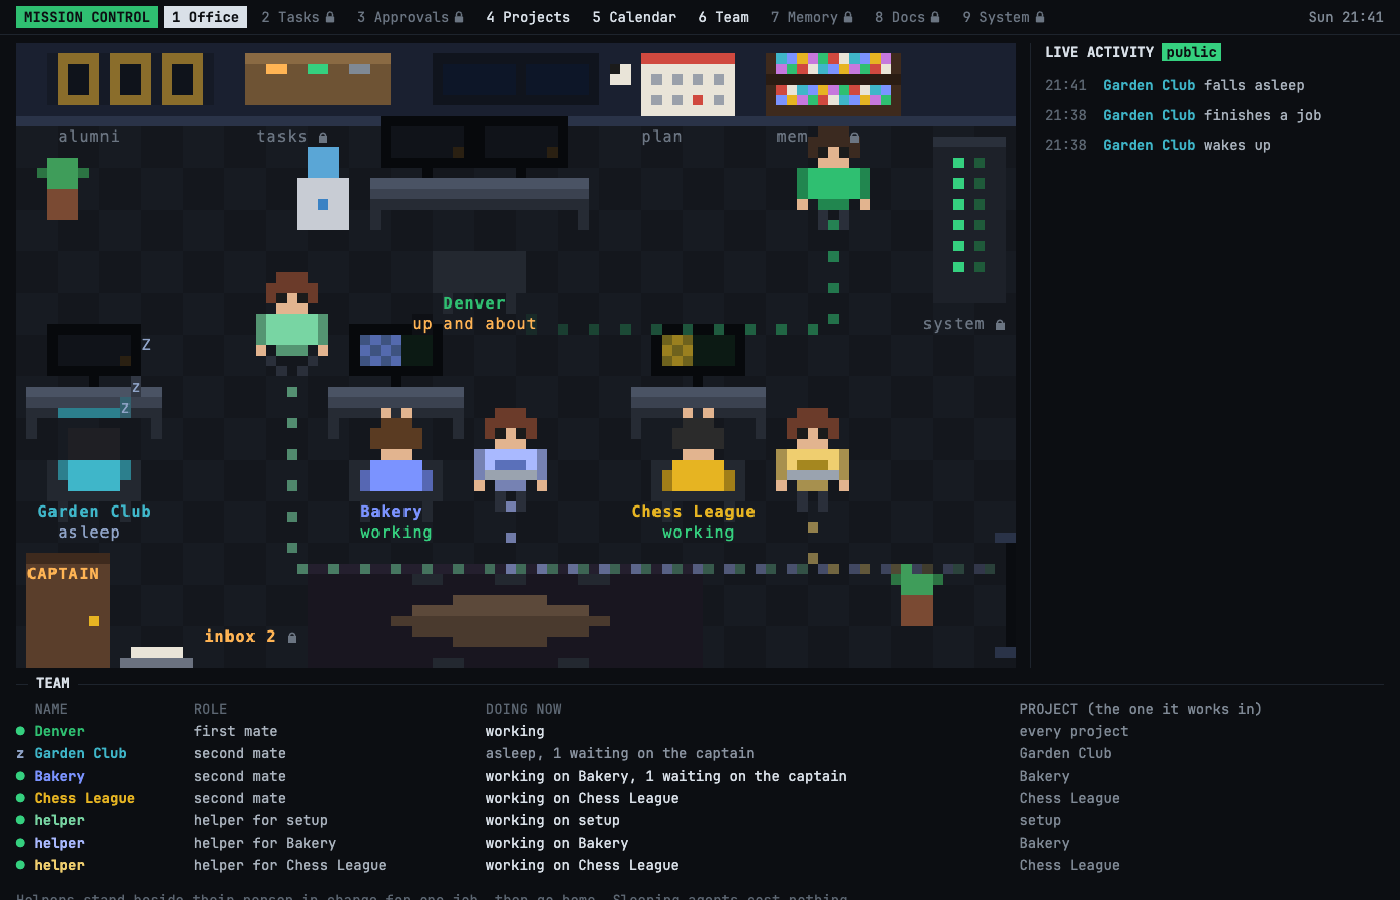
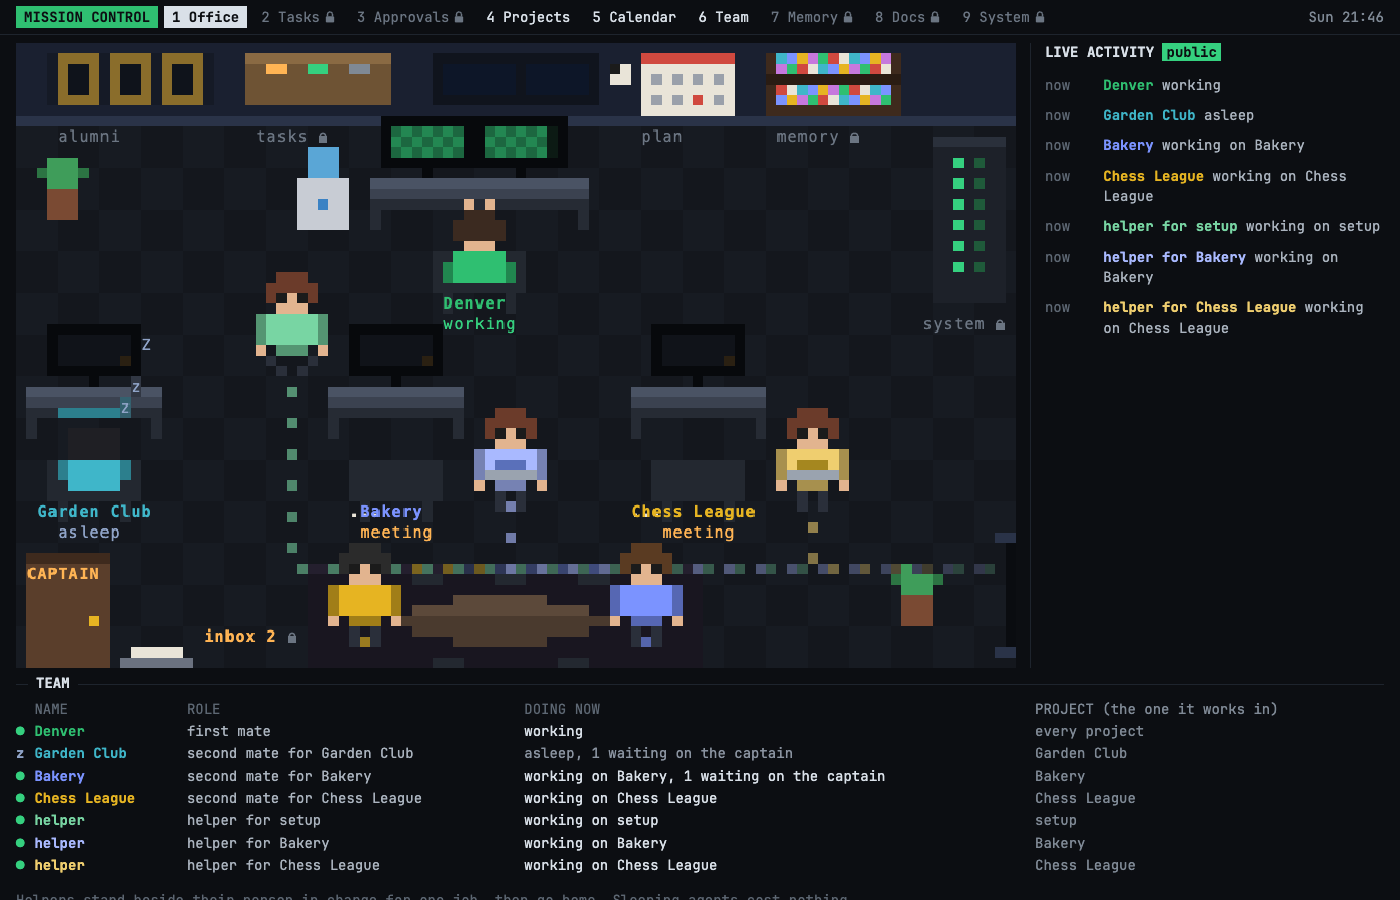
Build every public role from display names, never a registered scope

diff --git a/bin/mission-control-web/app.js b/bin/mission-control-web/app.js
@@ -718,7 +718,7 @@
       const g = el("td", "g " + (working ? "working" : helper ? "idle" : "asleep"), working ? "●" : helper ? "○" : "z");
       const nm = el("td", "nm", helper ? "helper" : str(d.name));
       nm.style.color = colour(d.color, "#d9e0e8");
-      const role = d.kind === "first" ? "first mate" : d.kind === "mate" ? "second mate" : str(d.name);
+      const role = str(d.role);
       let doing = str(d.activity);
       const w = helper ? 0 : waitingFor(d);
       if (w) doing += ", " + w + " waiting on the captain";

diff --git a/bin/fm_mission_control_web.py b/bin/fm_mission_control_web.py
@@ -34,8 +34,9 @@ records, so a field added to a record later never reaches the page.
             each live worker as "helper for <project>"; state working or asleep;
             one activity line built only from a fixed phrase and project names
             ("working on <project>"); the shirt and hair colours; the person in
-            charge of a helper; a second mate's one-line role only when it
-            passes _safe_role(), else "Looks after <projects>".
+            charge of a helper; a role built only from those names ("first
+            mate", "second mate for <projects>", "helper for <project>"),
+            never from a registered scope or charter.
   projects  public name, colour, status (active, parked or quiet), person in
             charge, and four counts: waiting on the captain, in flight, done
             this week (Sunday to Saturday) and done this month.
@@ -54,7 +55,7 @@ display name when that differs from the repository name, else "Project N" in
 registry order; this home's own repository is "setup" unless the names map
 names it. Every agent, project and calendar key is a position ("a1", "p2"),
 never a record id. Nothing is read from task titles, notes, paths, links,
-emails, charters beyond the role, data/captain.md, data/learnings.md, reports
+emails, scopes, charters, data/captain.md, data/learnings.md, reports
 or decision pages into the snapshot.
 
 SETTINGS. config/mission-control.json `public_page` (optional object):
@@ -133,21 +134,6 @@ def _public_names(model):
     return names, order
 
 
-def _safe_role(role, blocked):
-    """A second mate's one-line role, or None when it could carry anything private."""
-    role = (role or "").strip()
-    if not role or len(role) > 60:
-        return None
-    if not re.match(r"^[A-Za-z0-9 ,&'-]+$", role):
-        return None
-    words = {w.lower() for w in re.findall(r"[A-Za-z0-9]+", role)}
-    for b in blocked:
-        parts = {w.lower() for w in re.findall(r"[A-Za-z0-9]+", b or "")}
-        if parts and parts <= words:
-            return None
-    return role
-
-
 def _join(names):
     names = [n for n in names if n]
     if len(names) <= 2:
@@ -174,7 +160,6 @@ def public_snapshot(model, crew, settings, pub, now):
         return registered.get(os.path.basename(os.path.normpath(str(raw))).lower())
 
     mates = model.get("mates") or []
-    blocked = [p["name"] for p in model["projects"]] + [m["id"] for m in mates] + [model["ship"]]
     akey = {}
     agents = []
 
@@ -189,7 +174,7 @@ def public_snapshot(model, crew, settings, pub, now):
 
     by_key = {c["key"]: c for c in crew}
     fm = by_key["fm"]
-    add(fm, kind="first", name=settings["first_mate_name"], role="First mate",
+    add(fm, kind="first", name=settings["first_mate_name"], role="first mate",
         activity="working" if fm["status"] == "work" else "standing by",
         projects=[pkey[p] for p in order], lead=None)
     shown = 0
@@ -207,8 +192,7 @@ def public_snapshot(model, crew, settings, pub, now):
             activity = "working on %s" % (_join(pub_owned) if pub_owned else "its own list")
         else:
             activity = "asleep"
-        role = _safe_role(mc._role(m["scope"]), blocked) or (
-            "Looks after %s" % _join(pub_owned) if pub_owned else "Second mate")
+        role = "second mate for %s" % _join(pub_owned) if pub_owned else "second mate"
         add(c, kind="mate", name=name, role=role, activity=activity,
             projects=[pkey[p] for p in owned], lead=akey["fm"])
     for c in crew:
@@ -219,7 +203,7 @@ def public_snapshot(model, crew, settings, pub, now):
         lead = akey.get(c["lead"])
         if lead is None:
             continue
-        add(c, kind="helper", name="helper for %s" % where, role="Helper",
+        add(c, kind="helper", name="helper for %s" % where, role="helper for %s" % where,
             activity=("working on %s" if c["status"] == "work" else "between steps on %s") % where,
             projects=[pkey[p]], lead=lead)
 

diff --git a/docs/mission-control.md b/docs/mission-control.md
@@ -142,8 +142,8 @@ In the office the corkboard, bookshelf, server rack and inbox carry the same loc
 Tapping someone makes them stand up and say one line, like a character in a game: what they are doing, a count from their projects, or a fun fact.
 Its Open chat button is locked, because only you talk to the crew.
 
-The page shows only public facts: the first mate's name, each second mate by its project's name, helpers as "helper for" a project, working or asleep, project names and colours, how many items are waiting on you, in flight and done, how many were done or are due on each calendar day, and plain events such as "wakes up".
-It never shows task titles, notes, paths, links, email addresses, repository names or anything from the crew's memory, reports or decisions.
+The page shows only public facts: the first mate's name, each second mate by its project's name, helpers as "helper for" a project, roles built only from those names (such as "second mate for" a project), working or asleep, project names and colours, how many items are waiting on you, in flight and done, how many were done or are due on each calendar day, and plain events such as "wakes up".
+It never shows task titles, notes, paths, links, email addresses, repository names, the second mates' registered scopes or anything from the crew's memory, reports or decisions.
 A project whose repository has no name in `config/mission-control.json` shows as "Project 1", "Project 2" and so on.
 
 The page is a snapshot rather than a live view, so this Mac is never reachable from the internet.
